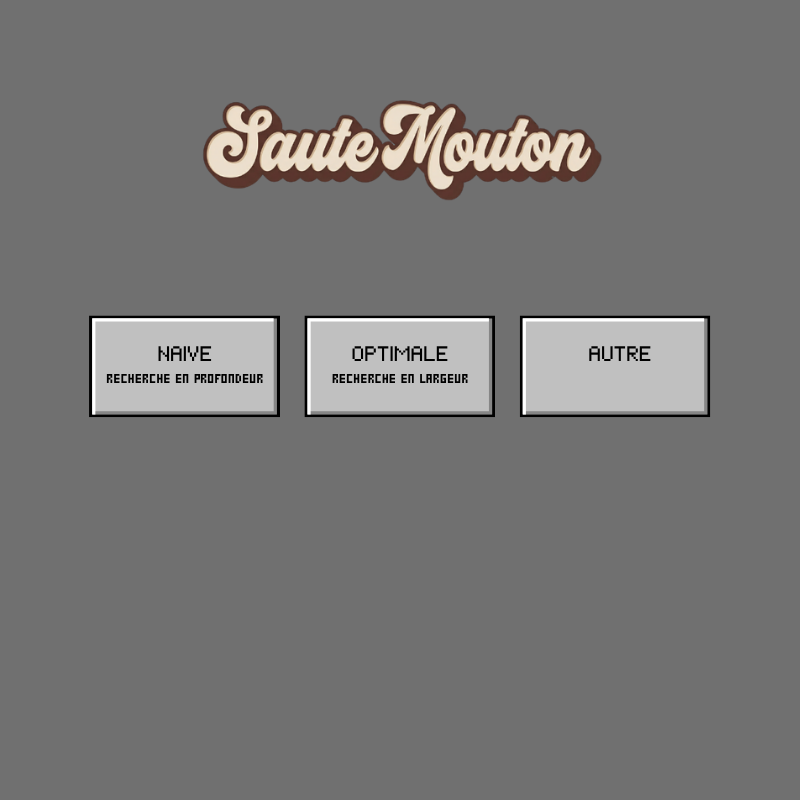
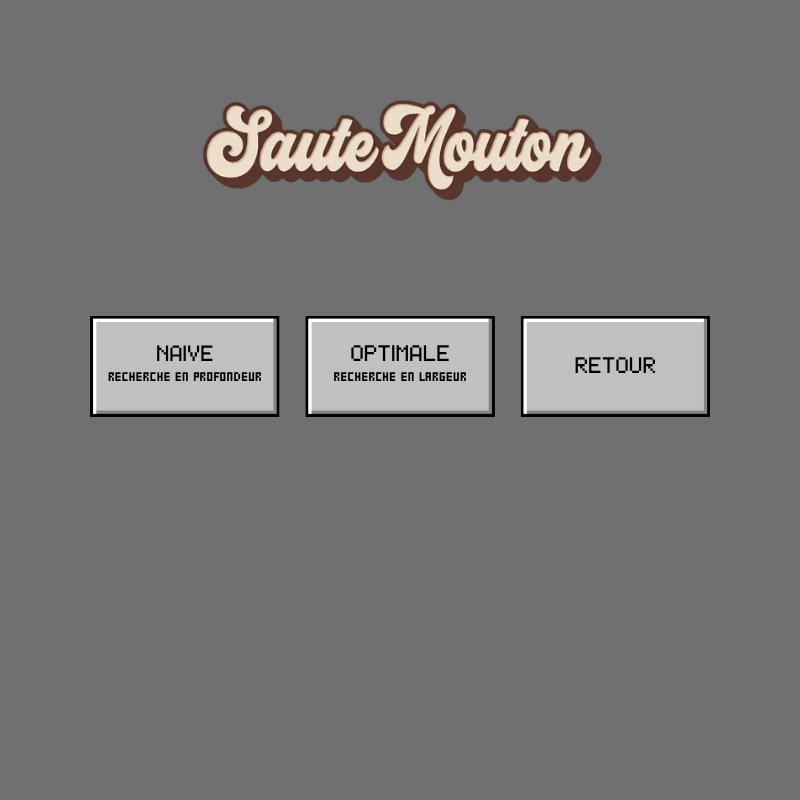
ajout des skin

diff --git a/gui/gestion.py b/gui/gestion.py
@@ -17,7 +17,7 @@ def dans_zone(x, y, xmin, xmax, ymin, ymax):
 def clic_principal(x, y, etat):
     if dans_zone(x, y, 260, 410, 650, 690):
         etat.menu = "SKIN"
-        charger_menue_skin(etat.skin)
+        charger_menue_skin(etat.skin, etat.page_skin)
     elif dans_zone(x, y, 290, 510, 280, 340):
         etat.menu = "THEME"
         efface_tout()
@@ -29,6 +29,9 @@ def clic_principal(x, y, etat):
         maj_page(etat, page_niveaux())
 
 def clic_skin(x, y, mon_jeu, etat):
+    tous_les_skins = [s for ligne in LISTE_SKIN for s in ligne if s is not None]
+    nb_pages = max(1, -(-len(tous_les_skins) // 9))
+
     if dans_zone(x, y, 300, 500, 720, 780):
         if etat.niveau == 0:
             etat.menu = "PRINCIPAL"
@@ -39,17 +42,35 @@ def clic_skin(x, y, mon_jeu, etat):
             nv_skin = f"{etat.skin}_j"
             etat.menu = "NIVEAU"
             charger_page_niveau(etat.theme, etat.niveau, nv_skin, mon_jeu)
-    
+            return etat
+
+    if dans_zone(x, y, 0, 100, 350, 450):
+        if etat.page_skin > 0:
+            etat.page_skin -= 1
+            charger_menue_skin(etat.skin, etat.page_skin)
+        return etat
+
+    if dans_zone(x, y, 700, 800, 350, 450):
+        if etat.page_skin < nb_pages - 1:
+            etat.page_skin += 1
+            charger_menue_skin(etat.skin, etat.page_skin)
+        return etat
+
     taille_demi_case = 75
-    for i in range(3):
-        for j in range(3):
-            centre_x = 200 + (j * 200)
-            centre_y = 200 + (i * 200)
-            if dans_zone(x, y, centre_x - taille_demi_case, centre_x + taille_demi_case, 
-                               centre_y - taille_demi_case, centre_y + taille_demi_case):
-                etat.skin = LISTE_SKIN[i][j]
-                charger_menue_skin(etat.skin)
-                return etat
+    tranche = tous_les_skins[etat.page_skin * 9 : etat.page_skin * 9 + 9]
+
+    for index, nom_skin in enumerate(tranche):
+        i = index // 3
+        j = index % 3
+        centre_x = 200 + j * 200
+        centre_y = 200 + i * 200
+        if dans_zone(x, y, centre_x - taille_demi_case, centre_x + taille_demi_case,
+                           centre_y - taille_demi_case, centre_y + taille_demi_case):
+            etat.skin = nom_skin
+            charger_menue_skin(etat.skin, etat.page_skin)
+            return etat
+
+    return etat
 
 def clic_editeur(x, y, etat):
     if dans_zone(x, y, 300, 500, 730, 790):

diff --git a/gui/interface.py b/gui/interface.py
@@ -364,20 +364,34 @@ def mouvement(jeu, skin, theme, trace):
     STATUE_JEU = False
     return resultat_final
 
-def charger_menue_skin(skin):
-    efface_tout()
-    fond = image(400, 400, "ressource/image/fond/menue.png")
-    retour = image(400, 750, "ressource/image/fond/bouton_retour.png")
-    
-    for i in range(3):
-        for j in range(3):
-            if LISTE_SKIN[i][j] == skin:
-                image(200+(j*200),200+(i*200),"ressource/image/fond/Skin_t.png")
-            elif LISTE_SKIN[i][j] != skin:
-                image(200+(j*200),200+(i*200),"ressource/image/fond/Skin_f.png")
-            image(200+(j*200),200+(i*200),"ressource/image/perso/" + str(LISTE_SKIN[i][j])+".png")
+def charger_menue_skin(skin, page=0):
+    NB_SKINS_PAR_PAGE = 9
+    tous_les_skins = [s for ligne in LISTE_SKIN for s in ligne if s is not None]
+    nb_pages = max(1, -(-len(tous_les_skins) // NB_SKINS_PAR_PAGE))
+    page = max(0, min(page, nb_pages - 1))
 
-    mise_a_jour()           
+    tranche = tous_les_skins[page * 9 : page * 9 + 9]
+
+    efface_tout()
+    image(400, 400, "ressource/image/fond/menue.png")
+    image(400, 750, "ressource/image/fond/bouton_retour.png")
+
+    for index, nom_skin in enumerate(tranche):
+        i = index // 3
+        j = index % 3
+        if nom_skin == skin:
+            image(200 + j * 200, 200 + i * 200, "ressource/image/fond/Skin_t.png")
+        else:
+            image(200 + j * 200, 200 + i * 200, "ressource/image/fond/Skin_f.png")
+        image(200 + j * 200, 200 + i * 200, f"ressource/image/perso/{nom_skin}.png")
+
+    if page > 0:
+        image(50, 400, "ressource/image/bouton/fleche_g.png")
+    if page < nb_pages - 1:
+        image(750, 400, "ressource/image/bouton/fleche_d.png")
+
+    mise_a_jour()
+    return {"page": page, "nb_pages": nb_pages}
 
 
 def charger_pause_save(evenement):

diff --git a/utils/constantes.py b/utils/constantes.py
@@ -28,9 +28,14 @@ LARGEUR_BLOC = {
     "pirate": 100,
 }
 
-LISTE_SKIN = [["agent_secret","astronaute","aventurier"],
-              ["batman","luigi","mario"],
-              ["pirates","standar","superman"]]   
+LISTE_SKIN = [
+    ["agent_secret", "astronaute", "aventurier"],
+    ["batman", "luigi", "mario"],
+    ["pirates", "standar", "superman"],
+    ["eren", "frisk_undertale", "geometrie"],
+    ["gojo", "levi", "mikassa"],
+    ["papyrus_undertale", "undertale_sans", None]
+]  
 
 COULEURS_BLOCS = {
     "normal":     "green",

diff --git a/utils/etat.py b/utils/etat.py
@@ -3,6 +3,7 @@ class EtatJeu:
         
         self.menu = "PRINCIPAL"
         self.skin = "standar"
+        self.page_skin = 0
         self.theme = ""
         self.niveau = 0
         self.menue = None
